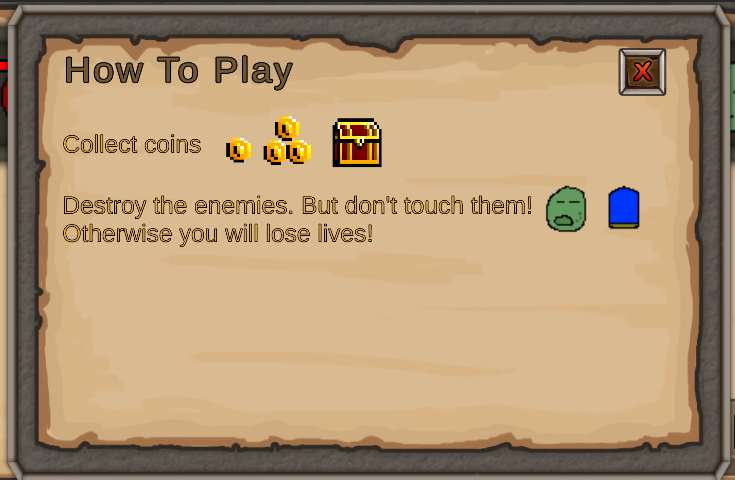
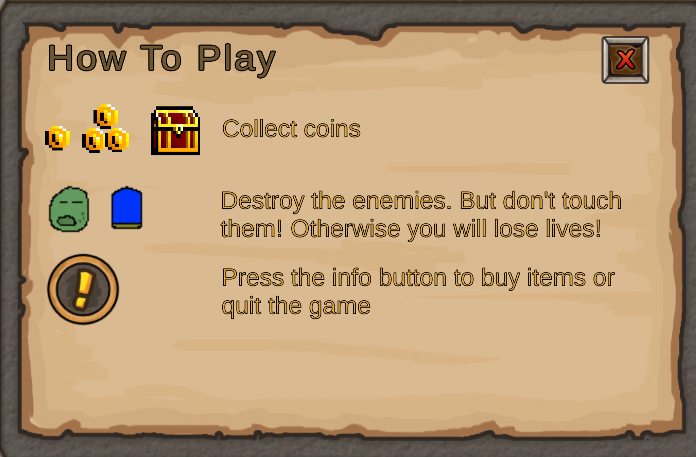
Change how to play menu as I've added instructions for what the pause button does

diff --git a/blogfirstandroidgame3.html b/blogfirstandroidgame3.html
@@ -49,7 +49,7 @@
                     <img class="diarypostimage" src="images_videos/blog/FirstAndroidGame/coinscollected.gif" slot="action6image">
                     <span slot ="action7text">To resolve the select button not closing on the what you have to buy menu. I made the select button do what the close button does in addition to what the select button already does. So now when the user selects a weapon then clicks the "select" button, the menu closes and the game continues</span>
                     <img class="diarypostimage" src="images_videos/blog/FirstAndroidGame/seelctcloses.PNG" slot="action7image">
-                    <span slot ="action8text">To resolve user not knowing what to collect. I added a how to play button and how to play menu in the Start scene</span>
+                    <span slot ="action8text">To resolve user not knowing what to collect, dodge or when to press the select button. I added a how to play button and how to play menu in the Start scene</span>
                     <img class="diarypostimage" src="images_videos/blog/FirstAndroidGame/HowToPlayMenu.PNG" slot="action8image">
                     <span slot ="action9text">This is it for part 3. Part 4 of my first android game journey coming soon</span>
                 </blogcontent-component>
